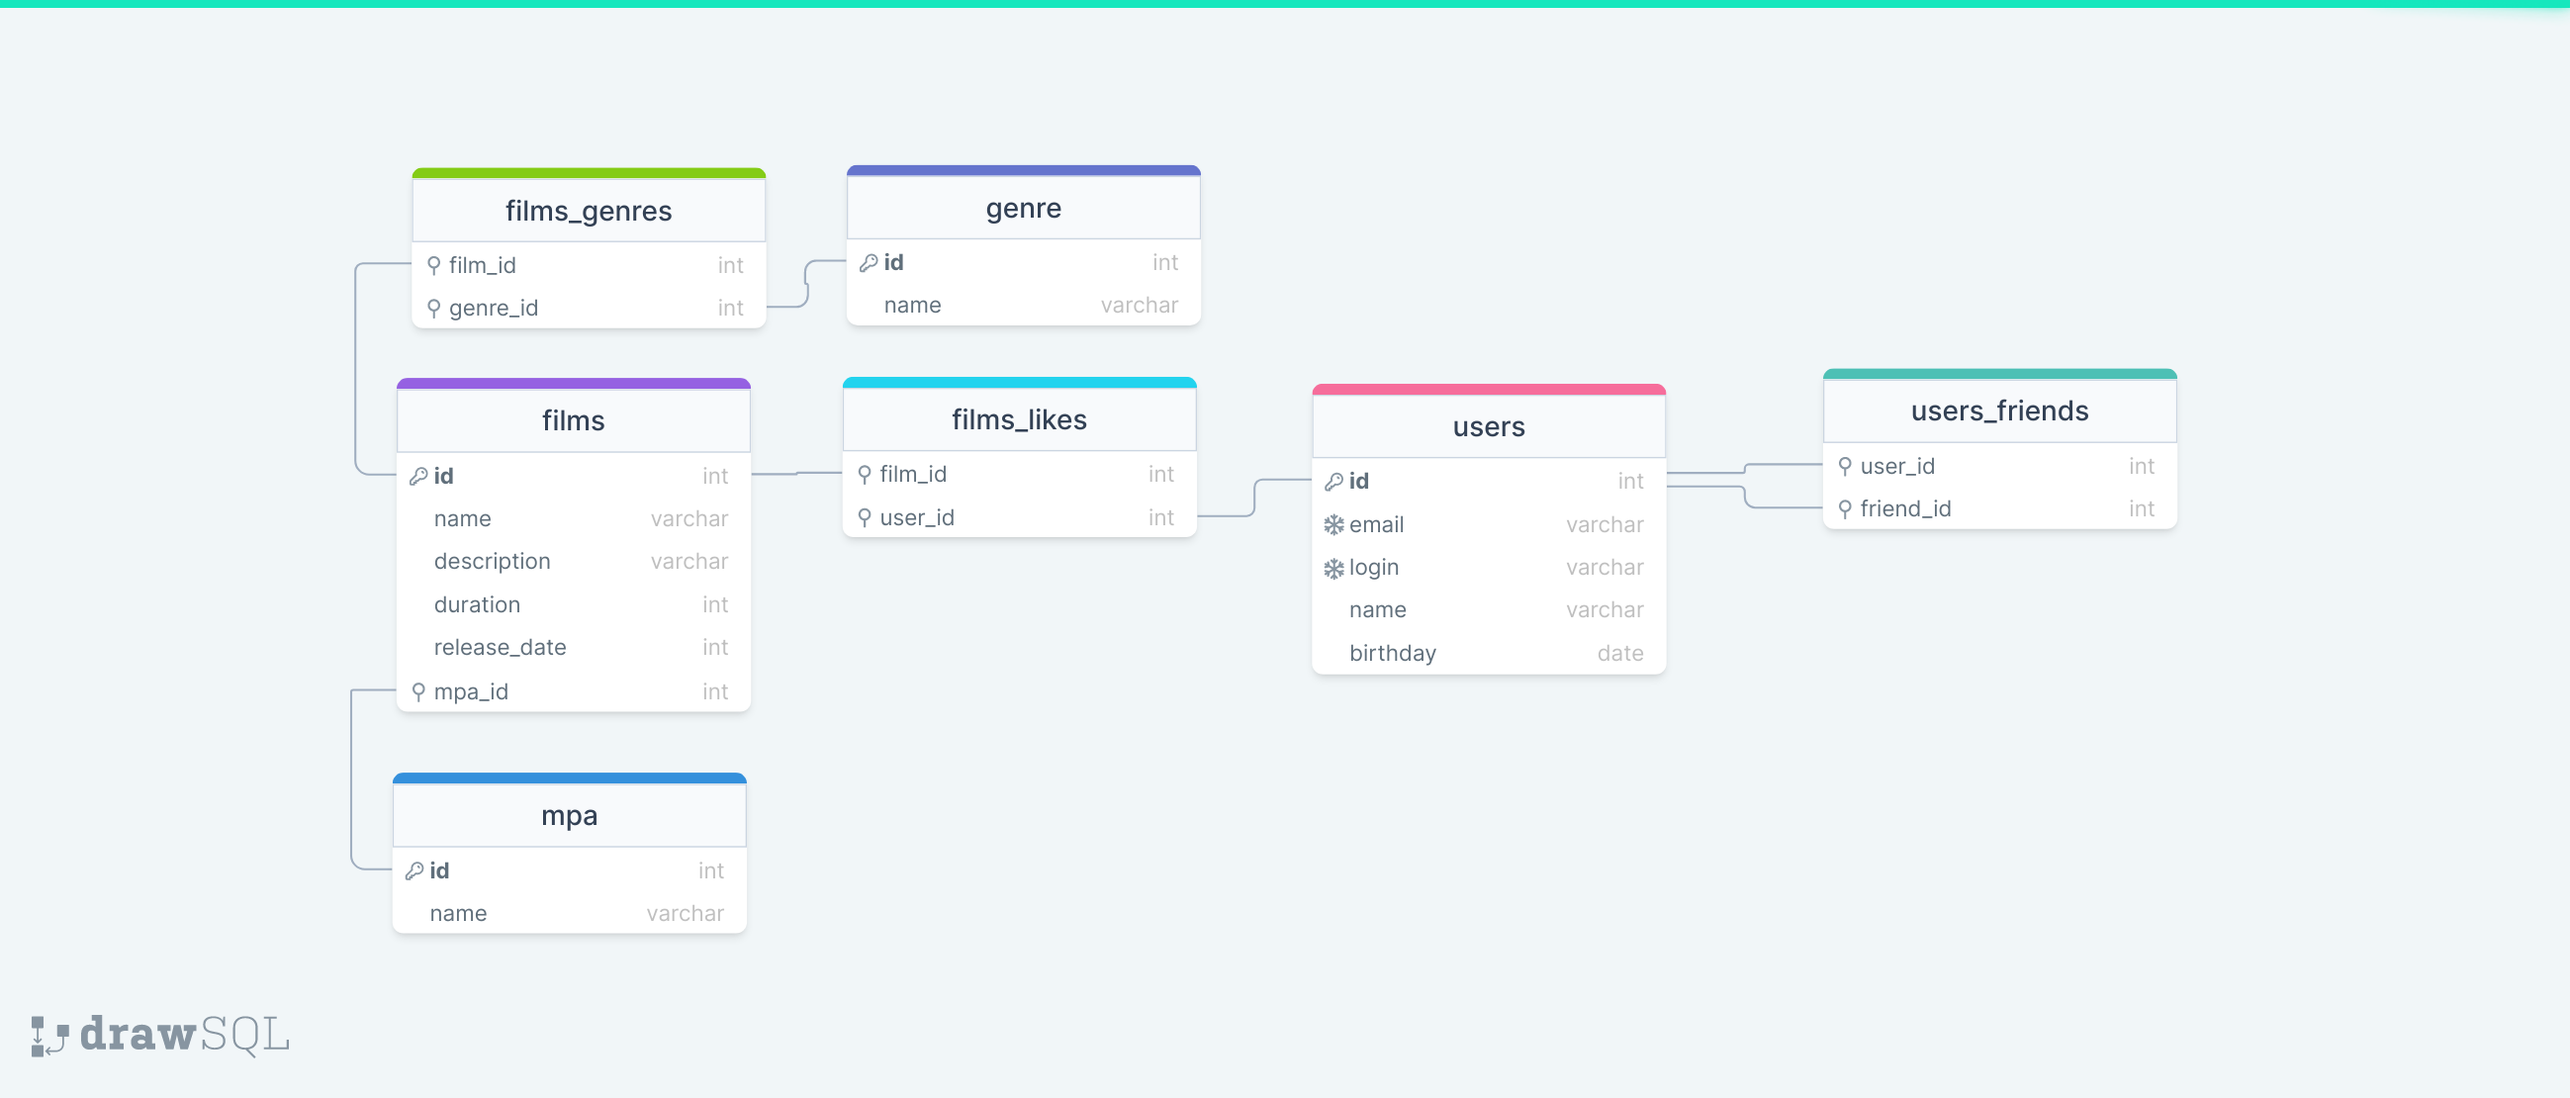
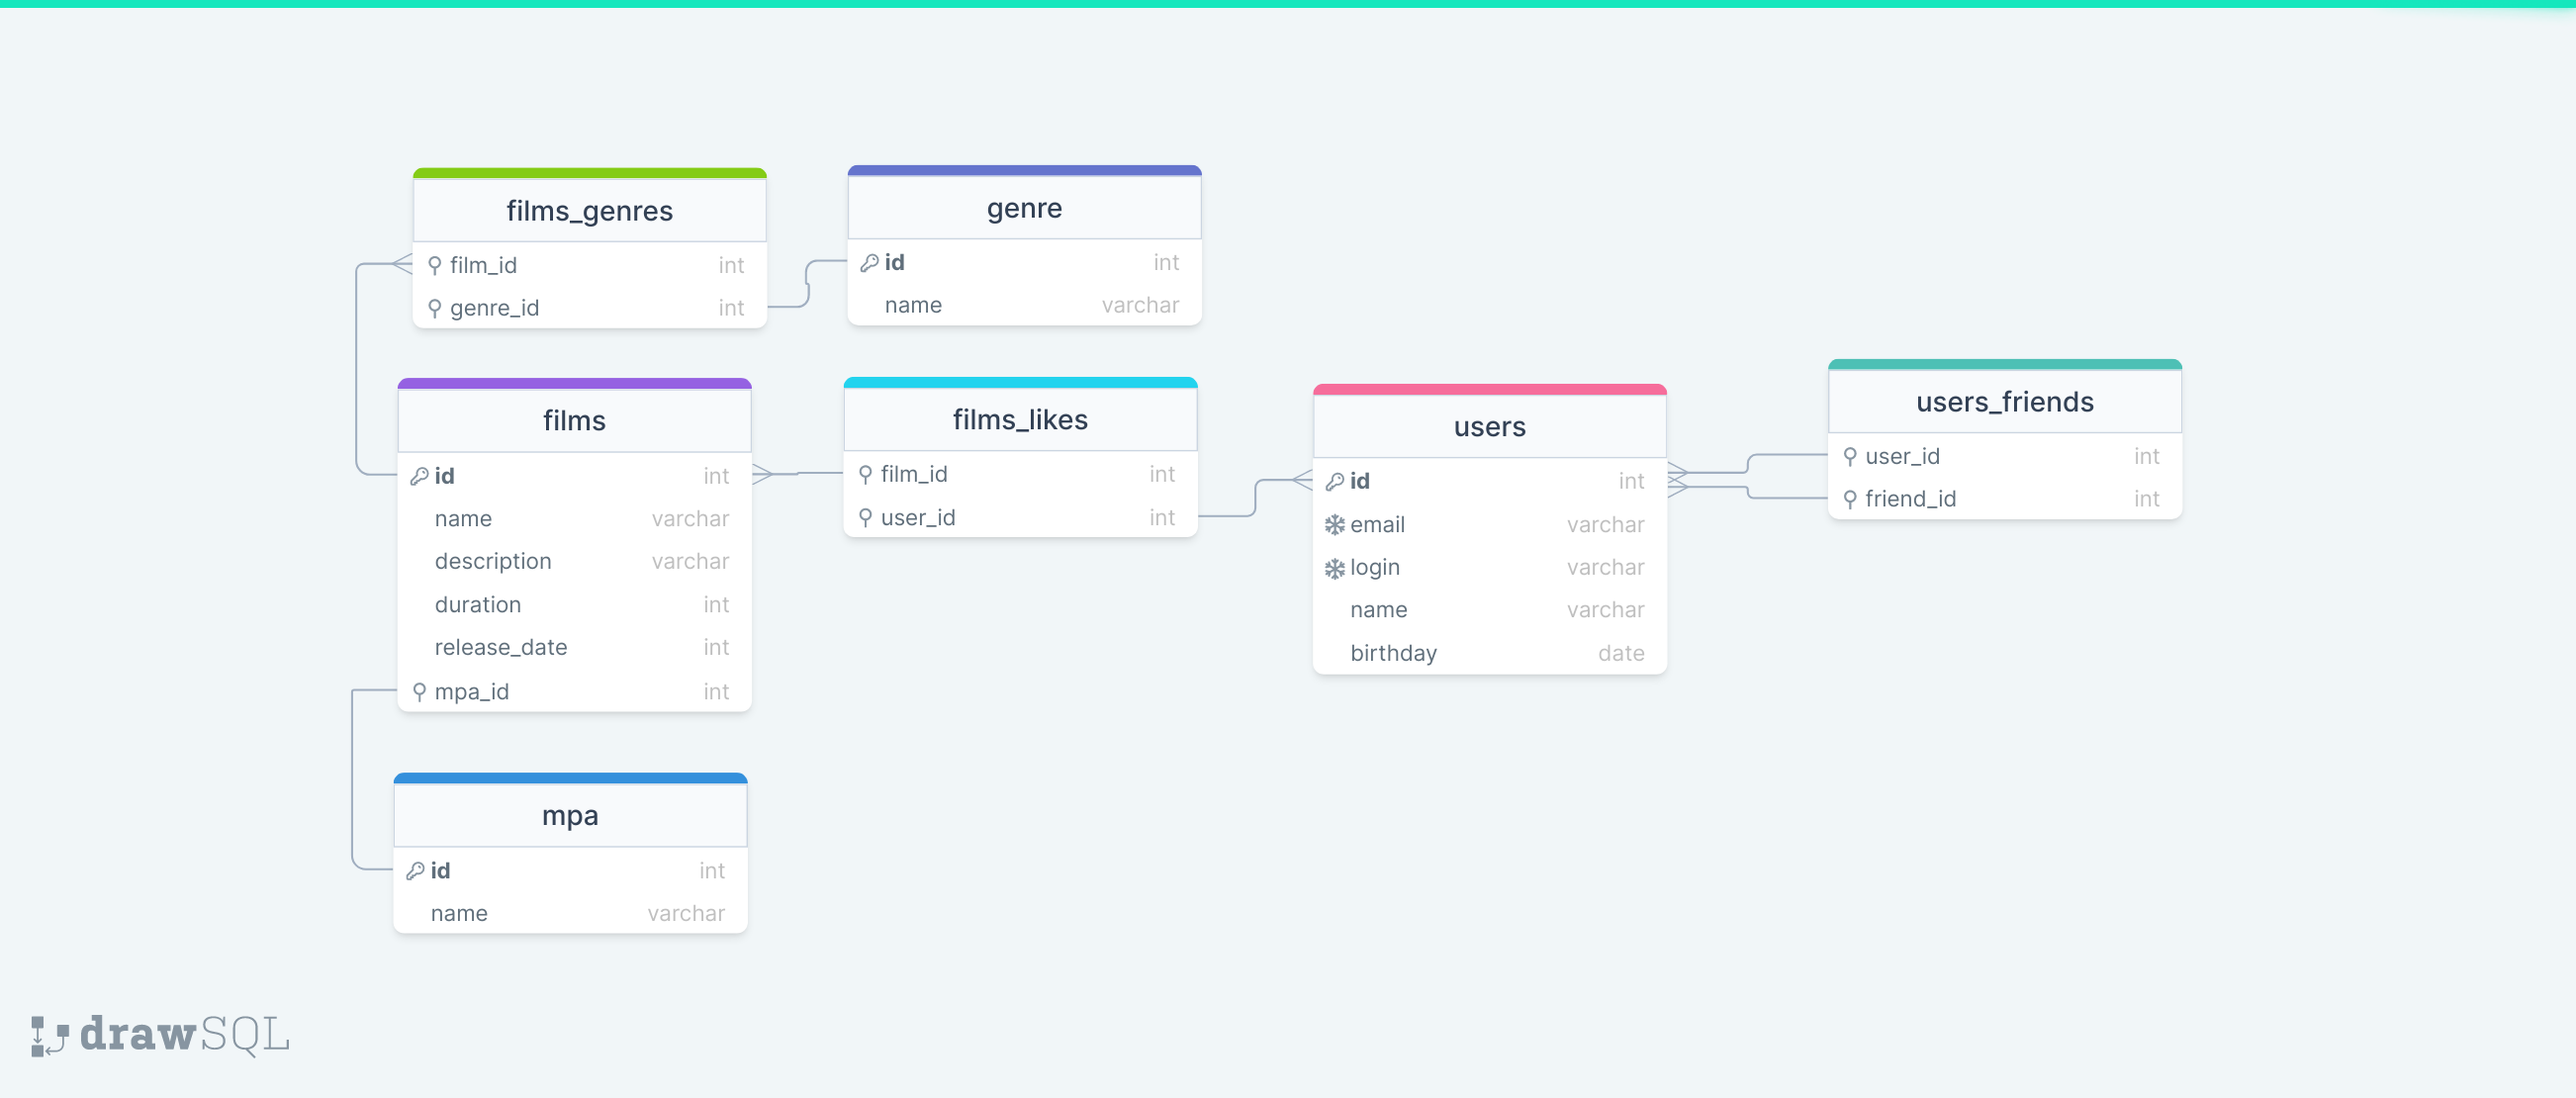
Update README.md

diff --git a/README.md b/README.md
@@ -1,2 +1,3 @@
 # java-filmorate
-Template repository for Filmorate project.
+## Схема базы данных:
+![plot](./src/main/resources/java-filmorate database diagram.png)
